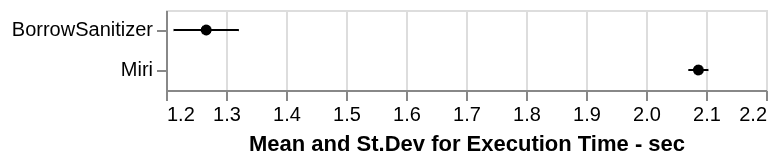
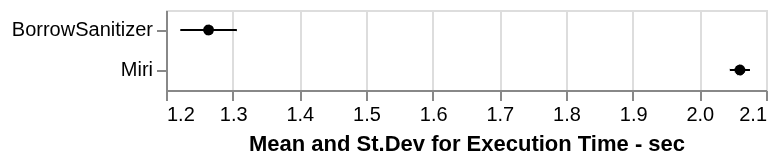
Disabled leak checking and added intro link. (#23)

diff --git a/src/status/february_2026.md b/src/status/february_2026.md
@@ -61,11 +61,11 @@ There are also certain features (like [signal handlers](https://github.com/rust-
 
 We do not have enough data to be confident about BorrowSanitizer's performance overhead yet. However, there's an interesting test case from [`hashbrown`](https://github.com/rust-lang/hashbrown) that is still worth taking a look at. The unit test [`test_lots_of_insertions`](https://github.com/rust-lang/hashbrown/blob/a41940ac86f6d08396594e4c062b4039dcb6099f/src/map.rs#L5326) is notoriously slow in Miri; it's even disabled by default, using `#[cfg(not(miri))]`. Broadly, this test does exactly what it says: it inserts and removes lots of entries from a single `HashMap` instance. [Krit](https://github.com/kritdass), one of our collaborators, created [a variant](https://github.com/BorrowSanitizer/bsan/blob/main/tests/pass-dep/lots_of_insertions.rs) of this test that lets us control the number of entries (N) being inserted on each iteration of its inner loop. The original test from `hashbrown` uses N=1000. Here are results for N=1 using BorrowSanitizer, AddressSanitizer, ThreadSanitizer, and both debug and release builds. Measurements are displayed as the average of 100 iterations. 
 
-![Average execution time for Miri (2.08 sec), BorrowSanitizer (1.26 sec), AddressSanitizer (0.005 sec), ThreadSanitizer (0.01 sec) and both debug (0.0006 sec) and release (0.0004 sec) builds for `test_lots_of_insertions`.](images/february_2026_all.png =500x center)
+![Average execution time for Miri (2.06 sec), BorrowSanitizer (1.26 sec), AddressSanitizer (0.005 sec), ThreadSanitizer (0.01 sec) and both debug (0.0006 sec) and release (0.0004 sec) builds for `test_lots_of_insertions`.](images/february_2026_all.png =500x center)
 
 We disabled most of Miri's checking and nondeterminism, enabled Tree Borrows, and disabled the garbage collector, since BorrowSanitizer does not support garbage collection yet. You can double-check our benchmarking configuration and raw dataset [here](https://github.com/BorrowSanitizer/feb-update). This is not an entirely fair comparison. In addition to the limitations surrounding Miri's compilation directives, our timing measurements include the invocation of the cargo plugins for both Miri and BorrowSanitizer, which work differently. BorrowSanitizer does not instrument global, thread-local, or constant allocations. Since this is a single test case, our results are not representative of how each of these tools performs in every situation. That said, BorrowSanitizer does appear to be significantly faster than Miri (note the logarithmic scale), but both tools are in a similar category of performance here. We have also noticed that BorrowSanitizer tends to be a bit noisier than Miri, but we are not sure why.
 
-![Average and standard deviation execution time for BorrowSanitizer (1.26 sec, 0.054 sec) and Miri (2.08 sec, 0.017 sec).](images/february_2026_mean_stdev.png =500x center)
+![Average and standard deviation execution time for BorrowSanitizer (1.26 sec, 0.043 sec) and Miri (2.06 sec, 0.015 sec).](images/february_2026_mean_stdev.png =500x center)
 
 These results indicate that BorrowSanitizer's overall performance is still quite dependent on the performance of Miri's Tree Borrows implementation. However, BorrowSanitizer still has plenty of room for optimization, since we have mostly focused on feature support up to this point.
 

diff --git a/src/intro.md b/src/intro.md
@@ -1,6 +1,6 @@
 # Introduction
 
-> Check out our first [status update](/status/january_2026.md) for 2026! 👀 
+> Check out our second [status update](/status/february_2026.md) for 2026! 👀 
 
 **BorrowSanitizer** is a dynamic analysis tool for detecting Rust-specific aliasing bugs in multi-language applications.
 
